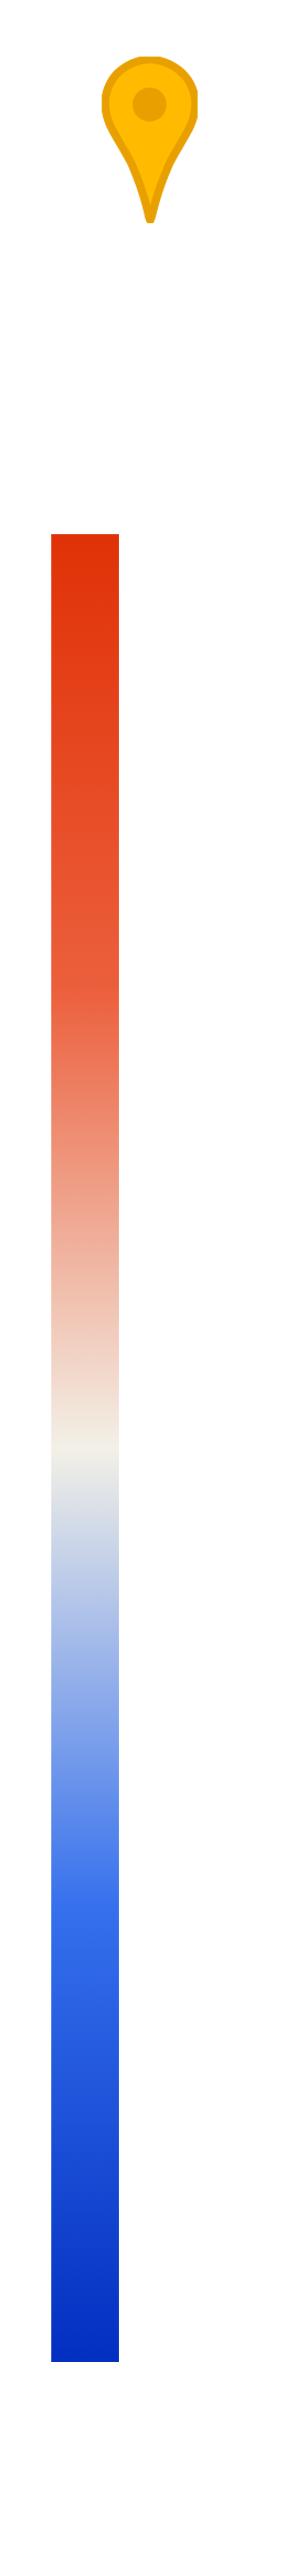
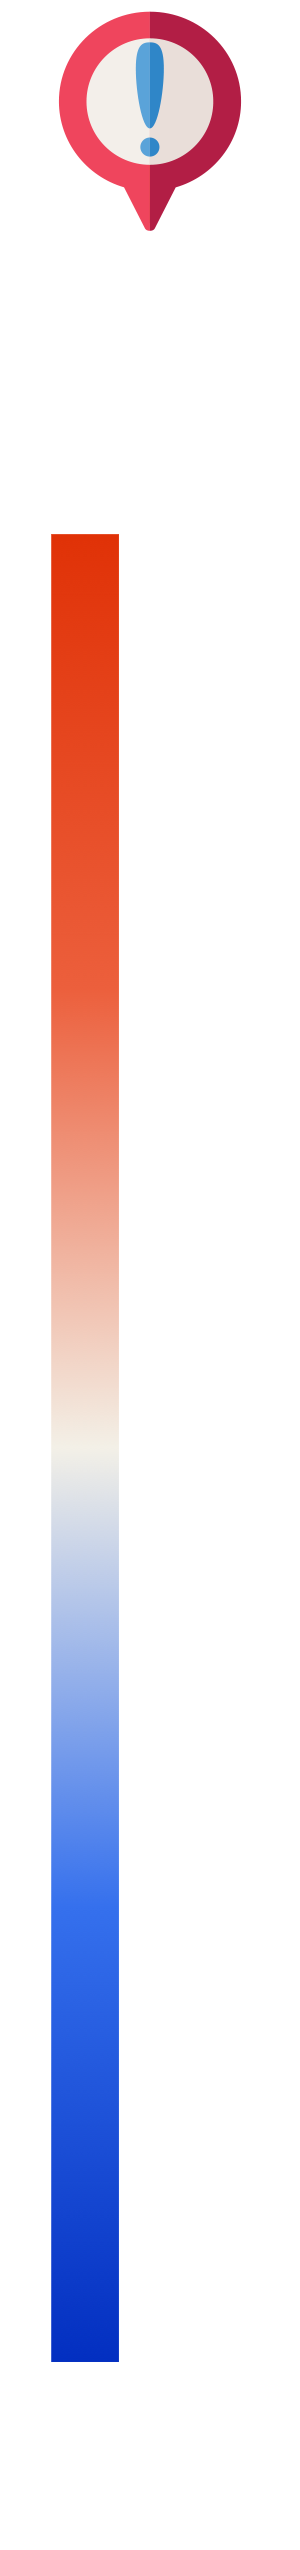
마커 이미지 변경

Changed region(s): [[0.18, 0.0, 0.81, 0.0929]]

diff --git a/src/pages/components/map.js b/src/pages/components/map.js
@@ -271,16 +271,23 @@ const MapB =(props) => {
         case 14:{
           setTool(true);
           setInteractive(true);
+          map.current.setLayoutProperty('seoul1', 'visibility', 'none');
+          map.current.setLayoutProperty('seoul2', 'visibility', 'none');
+          map.current.setLayoutProperty('valid_target_icon', 'visibility', 'visible');
+          map.current.setLayoutProperty('valid_others', 'visibility', 'visible');
+          map.current.setLayoutProperty('valid_target', 'visibility', 'visible');
+          map.current.setLayoutProperty('valid_others_inactive', 'visibility', 'none');
           break;
         }
         case 13:{
-          map.current.setLayoutProperty('valid_target_icon', 'visibility', 'visible');
+          map.current.setLayoutProperty('valid_target_icon', 'visibility', 'none');
           map.current.setLayoutProperty('valid_others', 'visibility', 'visible');
           map.current.setLayoutProperty('valid_case3', 'visibility', 'none');
           map.current.setPaintProperty('valid_others', 'fill-extrusion-opacity', 1);
           map.current.setPaintProperty('valid_target', 'fill-extrusion-opacity', 1);
           map.current.setPaintProperty('Invalid1', 'fill-extrusion-opacity', 1);
           map.current.setPaintProperty('Invalid2', 'fill-extrusion-opacity', 1);
+          map.current.setLayoutProperty('valid_target', 'visibility', 'visible');
           break;
         }
         case 12:{
@@ -303,37 +310,38 @@ const MapB =(props) => {
           map.current.setLayoutProperty('valid_case2', 'visibility', 'none');
           map.current.setLayoutProperty('valid_case1', 'visibility', 'visible');
           map.current.setLayoutProperty('valid_target_icon', 'visibility', 'none');
+
           map.current.setPaintProperty('valid_others', 'fill-extrusion-opacity', 0.3);
           map.current.setPaintProperty('valid_target', 'fill-extrusion-opacity', 0.3);
           map.current.setPaintProperty('Invalid1', 'fill-extrusion-opacity', 0.3);
           map.current.setPaintProperty('Invalid2', 'fill-extrusion-opacity', 0.3);
           break;
         }
-        case 9:{
+        case 9:{ //배경 설명
+          map.current.setLayoutProperty('valid_target_icon', 'visibility', 'none');;
           map.current.setLayoutProperty('valid_case1', 'visibility', 'none');
-          map.current.setLayoutProperty('valid_target_icon', 'visibility', 'visible');
           map.current.setPaintProperty('valid_others', 'fill-extrusion-opacity', 1);
           map.current.setPaintProperty('valid_target', 'fill-extrusion-opacity', 1);
           map.current.setPaintProperty('Invalid1', 'fill-extrusion-opacity', 1);
           map.current.setPaintProperty('Invalid2', 'fill-extrusion-opacity', 1);
         }
-        case 8:{
-          //기타 건물 토글
+        case 8:{ //기타건물 - 전체 줌 아웃
           map.current.setLayoutProperty('valid_others', 'visibility', 'visible');
           map.current.setLayoutProperty('valid_others_inactive', 'visibility', 'none');
+          map.current.setLayoutProperty('valid_target', 'visibility', 'visible');
           map.current.setLayoutProperty('valid_target_icon', 'visibility', 'visible');
           setVisible(true);
           break;
         }
-        case 7:{
-          //기타 건물 토글
+        case 7:{ //쪽방촌 클로즈업
           map.current.setLayoutProperty('valid_others_inactive', 'visibility', 'visible');
           map.current.setLayoutProperty('valid_others', 'visibility', 'none');
           map.current.setLayoutProperty('valid_target_icon', 'visibility', 'none');
+          map.current.setLayoutProperty('valid_target', 'visibility', 'visible');
           setVisible(false);
           break;
         }
-        case 6:{
+        case 6:{ //전체 시각화 전경
           // 레이어 비활성화 및 마커 제거
           markers.current.forEach(marker => {
             const markerElement = marker.getElement();
@@ -347,6 +355,7 @@ const MapB =(props) => {
           map.current.setLayoutProperty('seoul2', 'visibility', 'none');
           map.current.setLayoutProperty('valid_others_inactive', 'visibility', 'none');
           map.current.setLayoutProperty('valid_others', 'visibility', 'visible');
+          map.current.setLayoutProperty('valid_target', 'visibility', 'visible');
           map.current.setLayoutProperty('valid_target_icon', 'visibility', 'none');
           setVisible(true);
           break;
@@ -355,7 +364,6 @@ const MapB =(props) => {
           setTimeout(()=>{
             map.current.setLayoutProperty('seoul1', 'visibility', 'visible');
             map.current.setLayoutProperty('seoul2', 'visibility', 'visible');
-            map.current.setLayoutProperty('valid_others', 'visibility', 'visible');
             if (markers.current.length==0) {
               for (const feature of geojson.features) {
                 const el = document.createElement('div');
